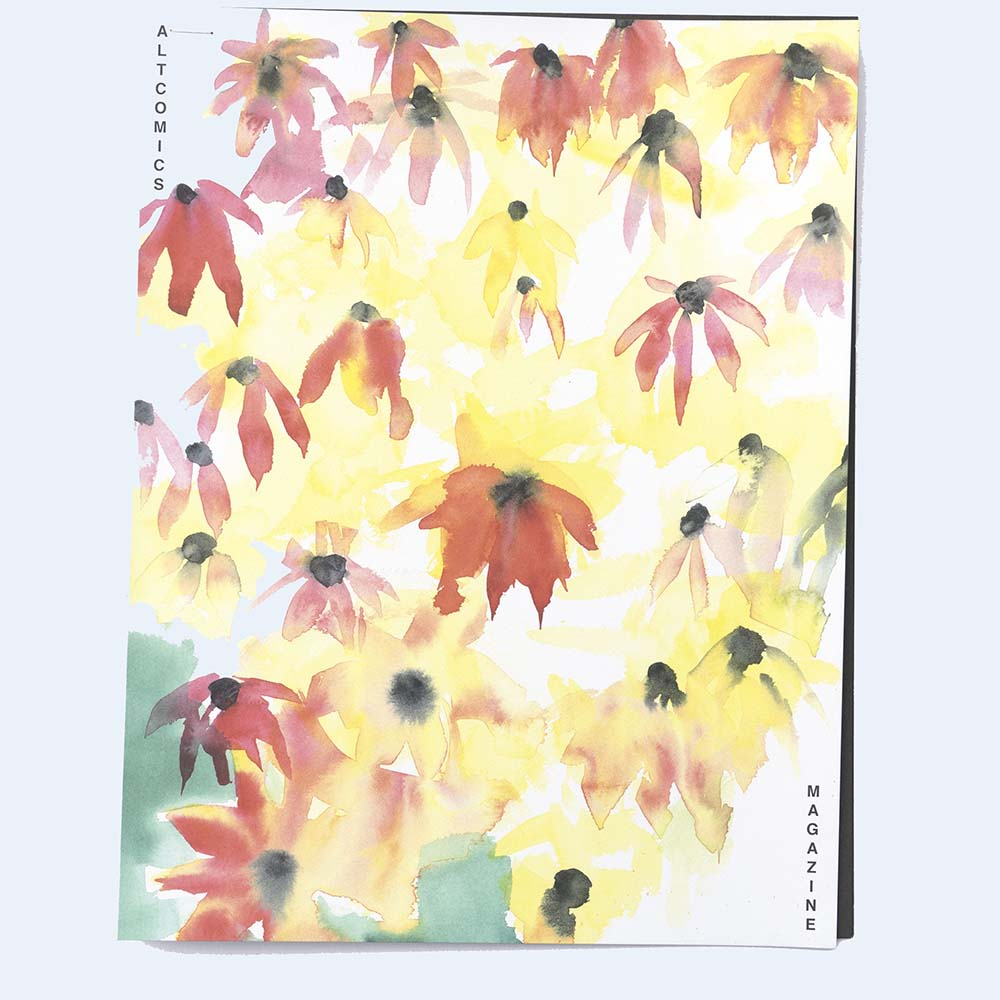
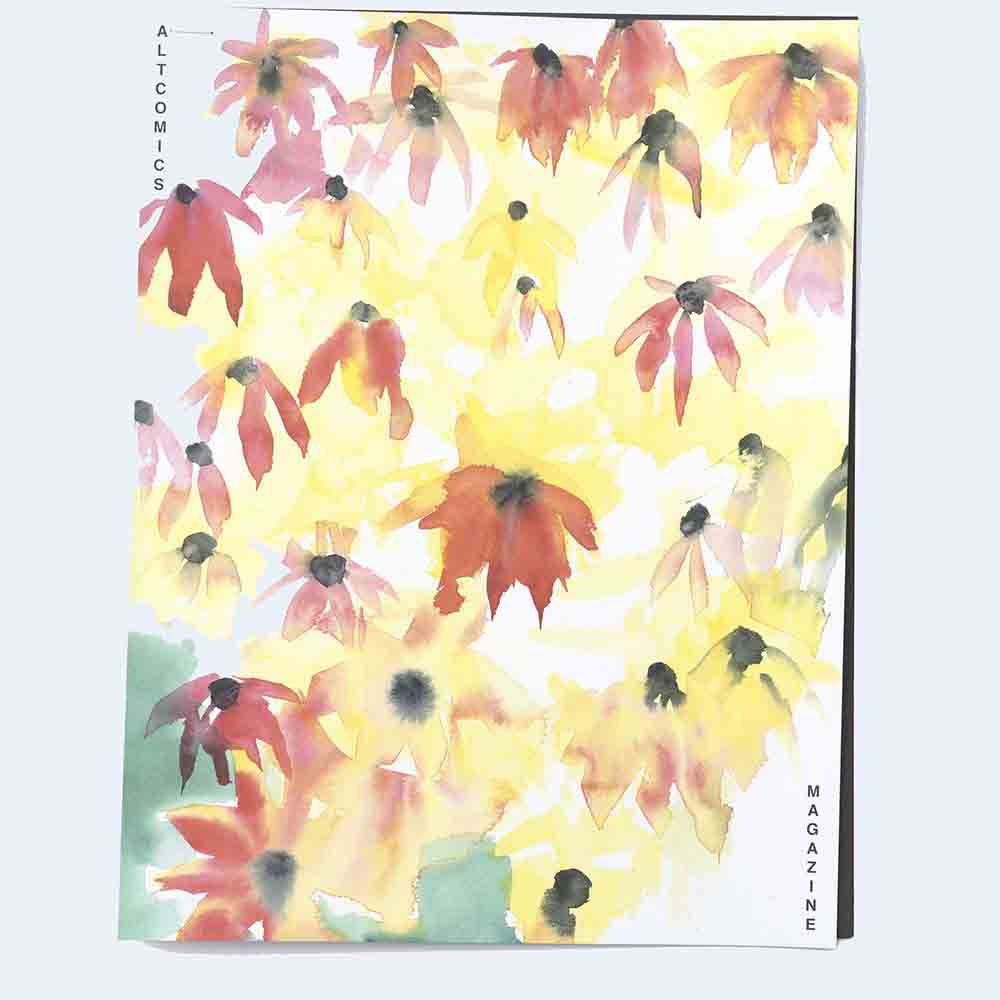
make file sizes smaller for rest of books

diff --git a/_pages/books/chrysanthemum-the-storyboards.html b/_pages/books/chrysanthemum-the-storyboards.html
@@ -3,26 +3,26 @@ title: "Chrysanthemum: the Storyboards"
 permalink: /chrysanthemum-the-storyboards
 redirect_from: /pages/books/chrysanthemum-the-storyboards.html
 cover:
-  path: /assets/images/books/maggie-umber-chrysanthemum-the-storyboards-cover-lrg.jpg
+  path: /assets/images/books/maggie-umber-chrysanthemum-the-storyboards-cover.jpg
   alt: "chrysanthemum flowers, text reads: Chrysanthemum: the Storyboards, Maggie Umber"
 price: $10
 button_id: 423SNC57JXKAA
 pages: 80 pgs, 7 in x 8.5 in
 materials: black & white inkjet pamphlet on legal paper
 images:
-  - path: /assets/images/books/maggie-umber-chrysanthemum-the-storyboards-lrg-01.jpg
+  - path: /assets/images/books/maggie-umber-chrysanthemum-the-storyboards-01.jpg
     alt: "a woman's face and a chrysanthemum flower, text reads: Chrysanthemum: the Storyboards, Maggie Umber"
-  - path: /assets/images/books/maggie-umber-chrysanthemum-the-storyboards-lrg-02.jpg
+  - path: /assets/images/books/maggie-umber-chrysanthemum-the-storyboards-02.jpg
     alt: 9 panels showing a woman walking through an interior, past a man
-  - path: /assets/images/books/maggie-umber-chrysanthemum-the-storyboards-lrg-03.jpg
+  - path: /assets/images/books/maggie-umber-chrysanthemum-the-storyboards-03.jpg
     alt: a woman extending her arm backwards into a circle of darkness
-  - path: /assets/images/books/maggie-umber-chrysanthemum-the-storyboards-lrg-04.jpg
+  - path: /assets/images/books/maggie-umber-chrysanthemum-the-storyboards-04.jpg
     alt: "a woman with folded hands, text reads: Rine 6/18-6/22/2021 fountain pen and ink on rough watercolor paper"
-  - path: /assets/images/books/maggie-umber-chrysanthemum-the-storyboards-lrg-05.jpg
+  - path: /assets/images/books/maggie-umber-chrysanthemum-the-storyboards-05.jpg
     alt: 4 panels of a woman and man embracing and drinking together
-  - path: /assets/images/books/maggie-umber-chrysanthemum-the-storyboards-lrg-06.jpg
+  - path: /assets/images/books/maggie-umber-chrysanthemum-the-storyboards-06.jpg
     alt: 4 panels of a woman and man embracing and drinking together
-  - path: /assets/images/books/maggie-umber-chrysanthemum-the-storyboards-lrg-07.jpg
+  - path: /assets/images/books/maggie-umber-chrysanthemum-the-storyboards-07.jpg
     alt: "text reads: Collected here are the storyboards for Chrysanthemum Under the Waves. They were made from 2016-2021."
 trailer:
   path: /assets/videos/maggie-umber-chrysanthemum-the-storyboards-trailer.mp4

diff --git a/_pages/books/chrysanthemum-under-the-waves.html b/_pages/books/chrysanthemum-under-the-waves.html
@@ -5,16 +5,16 @@ redirect_from:
   - /pages/books/chrysanthemum-under-the-waves.html
   - /pages/chrysanthemum-under-the-waves/home.html
 cover:
-  path: /assets/images/books/maggie-umber-chrysanthemum-under-the-waves-cover-lrg.jpg
+  path: /assets/images/books/maggie-umber-chrysanthemum-under-the-waves-cover.jpg
   alt: "a woman in profile with long hair floating up, text reads: Chrysanthemum Under the Waves"
 price: $35 PREORDER SHIPS 11/2024
 button_id: SB5W5DNEJC7LS
 pages: 272 pgs, 6 in x 9 in
 materials: softcover, smythsewn
 images:
-  - path: /assets/images/books/maggie-umber-chrysanthemum-under-the-waves-lrg-01.jpg
+  - path: /assets/images/books/maggie-umber-chrysanthemum-under-the-waves-01.jpg
     alt: chrysanthemums on the left, woman and a man embracing on the right
-  - path: /assets/images/books/maggie-umber-chrysanthemum-under-the-waves-lrg-02.jpg
+  - path: /assets/images/books/maggie-umber-chrysanthemum-under-the-waves-02.jpg
     alt: a man staring, man holding a woman as she falls apart, a woman gazing at a dress, a clock nearing 10am
 trailer:
   path: /assets/videos/maggie-umber-the-tooth-animation.mp4

diff --git a/_pages/books/jonesy.html b/_pages/books/jonesy.html
@@ -3,18 +3,18 @@ title: Jonesy
 permalink: /jonesy
 redirect_from: /pages/books/jonesy.html
 cover:
-  path: /assets/images/books/maggie-umber-jonesy-cover-lrg.jpg
+  path: /assets/images/books/maggie-umber-jonesy-cover.jpg
   alt: "a red figure smiling on a book cover, text reads: Jonesy, Maggie Umber"
 price: $8
 button_id: H2PUKF98UFY9S
 pages: 32 pgs, 5.5 in x 8.5 in
 materials: color inkjet pamphlet on matte cardstock
 images:
-  - path: /assets/images/books/maggie-umber-jonesy-lrg-01.jpg
+  - path: /assets/images/books/maggie-umber-jonesy-01.jpg
     alt: "an open comic book with panels showing a cat looking up and a red-headed person drawing"
-  - path: /assets/images/books/maggie-umber-jonesy-lrg-02.jpg
+  - path: /assets/images/books/maggie-umber-jonesy-02.jpg
     alt: pattern of a red tube man dancing
-  - path: /assets/images/books/maggie-umber-jonesy-lrg-03.jpg
+  - path: /assets/images/books/maggie-umber-jonesy-03.jpg
     alt: a cat with a red and yellow face, text reads $8
 trailer:
   path: /assets/videos/maggie-umber-jonesy-trailer.mov

diff --git a/_pages/books/pretzel.html b/_pages/books/pretzel.html
@@ -3,16 +3,16 @@ title: PRETZEL
 permalink: /pretzel
 redirect_from: /pages/books/pretzel.html
 cover:
-  path: /assets/images/books/maggie-umber-pretzel-cover-lrg.jpg
+  path: /assets/images/books/maggie-umber-pretzel-cover.jpg
   alt: "a white pretzel on a black zine cover, text reads: PRETZEL, Maggie Umber"
 price: $5
 button_id: TTGXZJKC57NV4
 pages: 9 pgs, 3 in x 4.25 in, folds out to 8.5 in x 11
 materials: photo black inkjet booklet on white matte cardstock
 images:
-  - path: /assets/images/books/maggie-umber-pretzel-lrg-01.jpg
+  - path: /assets/images/books/maggie-umber-pretzel-01.jpg
     alt: a woman sleeping in the dark under a salt crusted blanket as a white pretzel spider descends in three panels
-  - path: /assets/images/books/maggie-umber-pretzel-lrg-02.jpg
+  - path: /assets/images/books/maggie-umber-pretzel-02.jpg
     alt: the inside of a fold out poster zine showing a woman's head being guarded by a large pretzel spider in semi-darkness
 trailer:
   path: /assets/videos/maggie-umber-pretzel-trailer.mov
